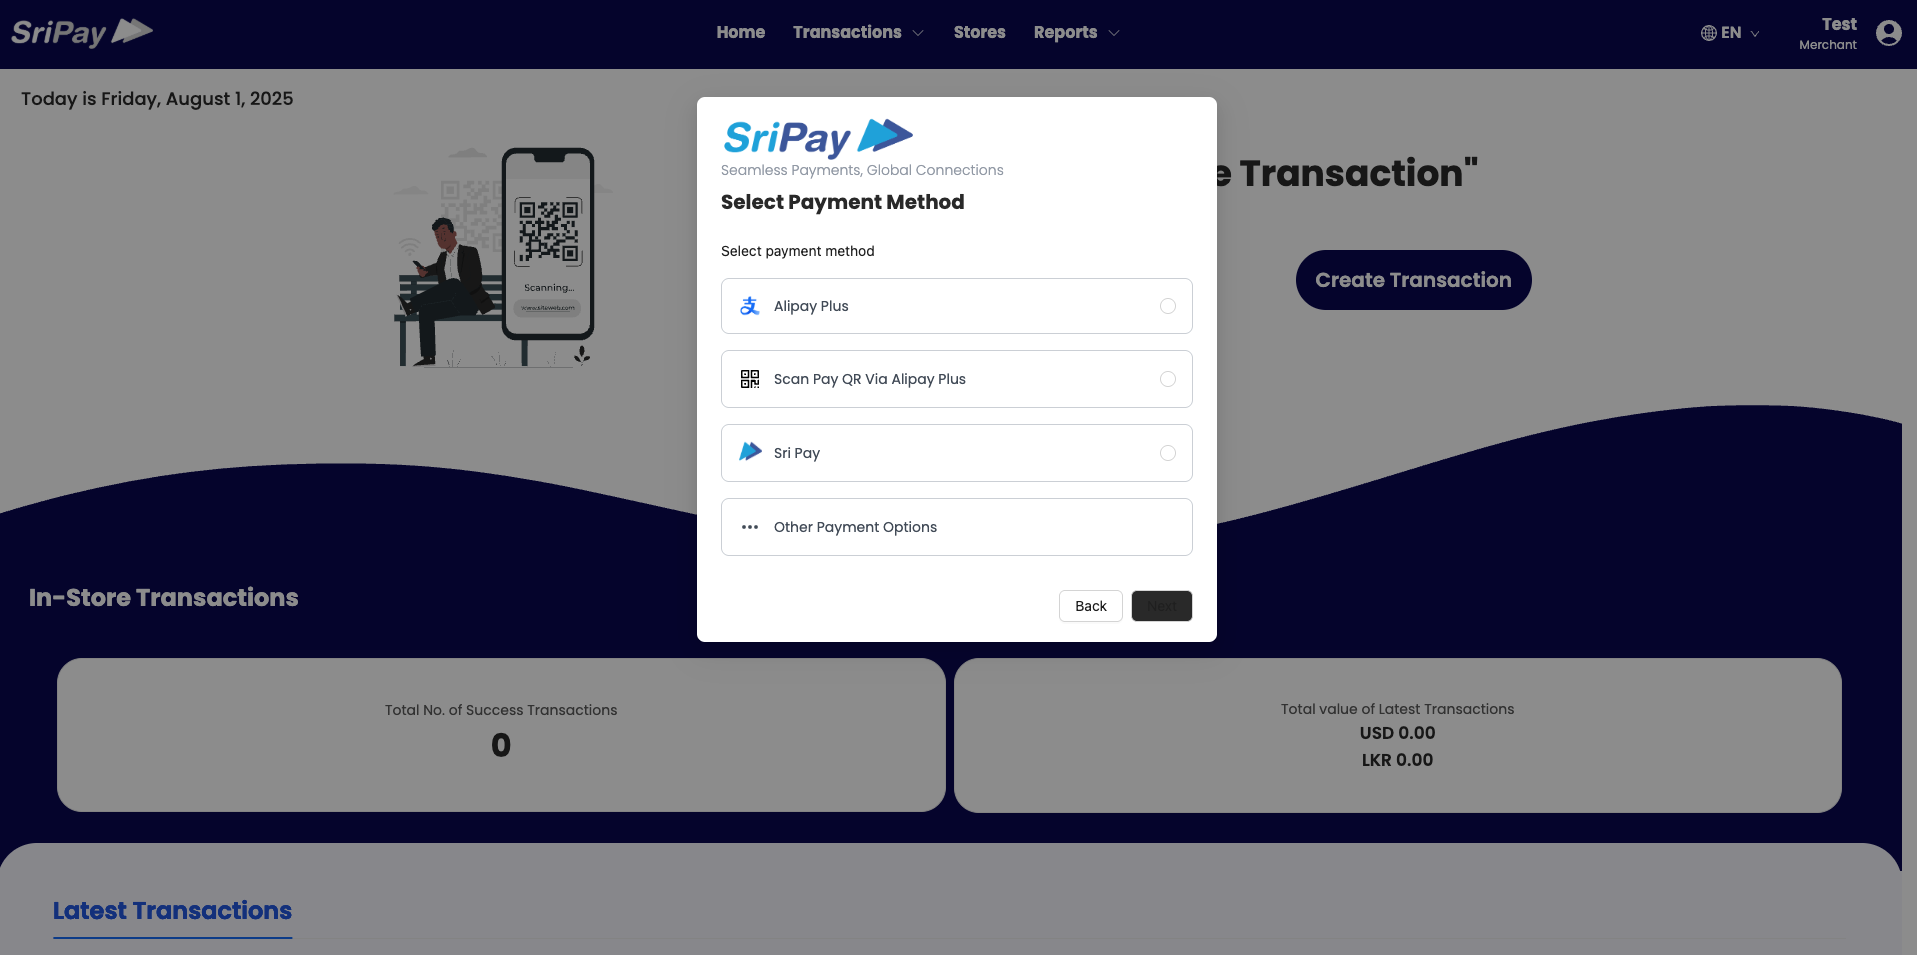
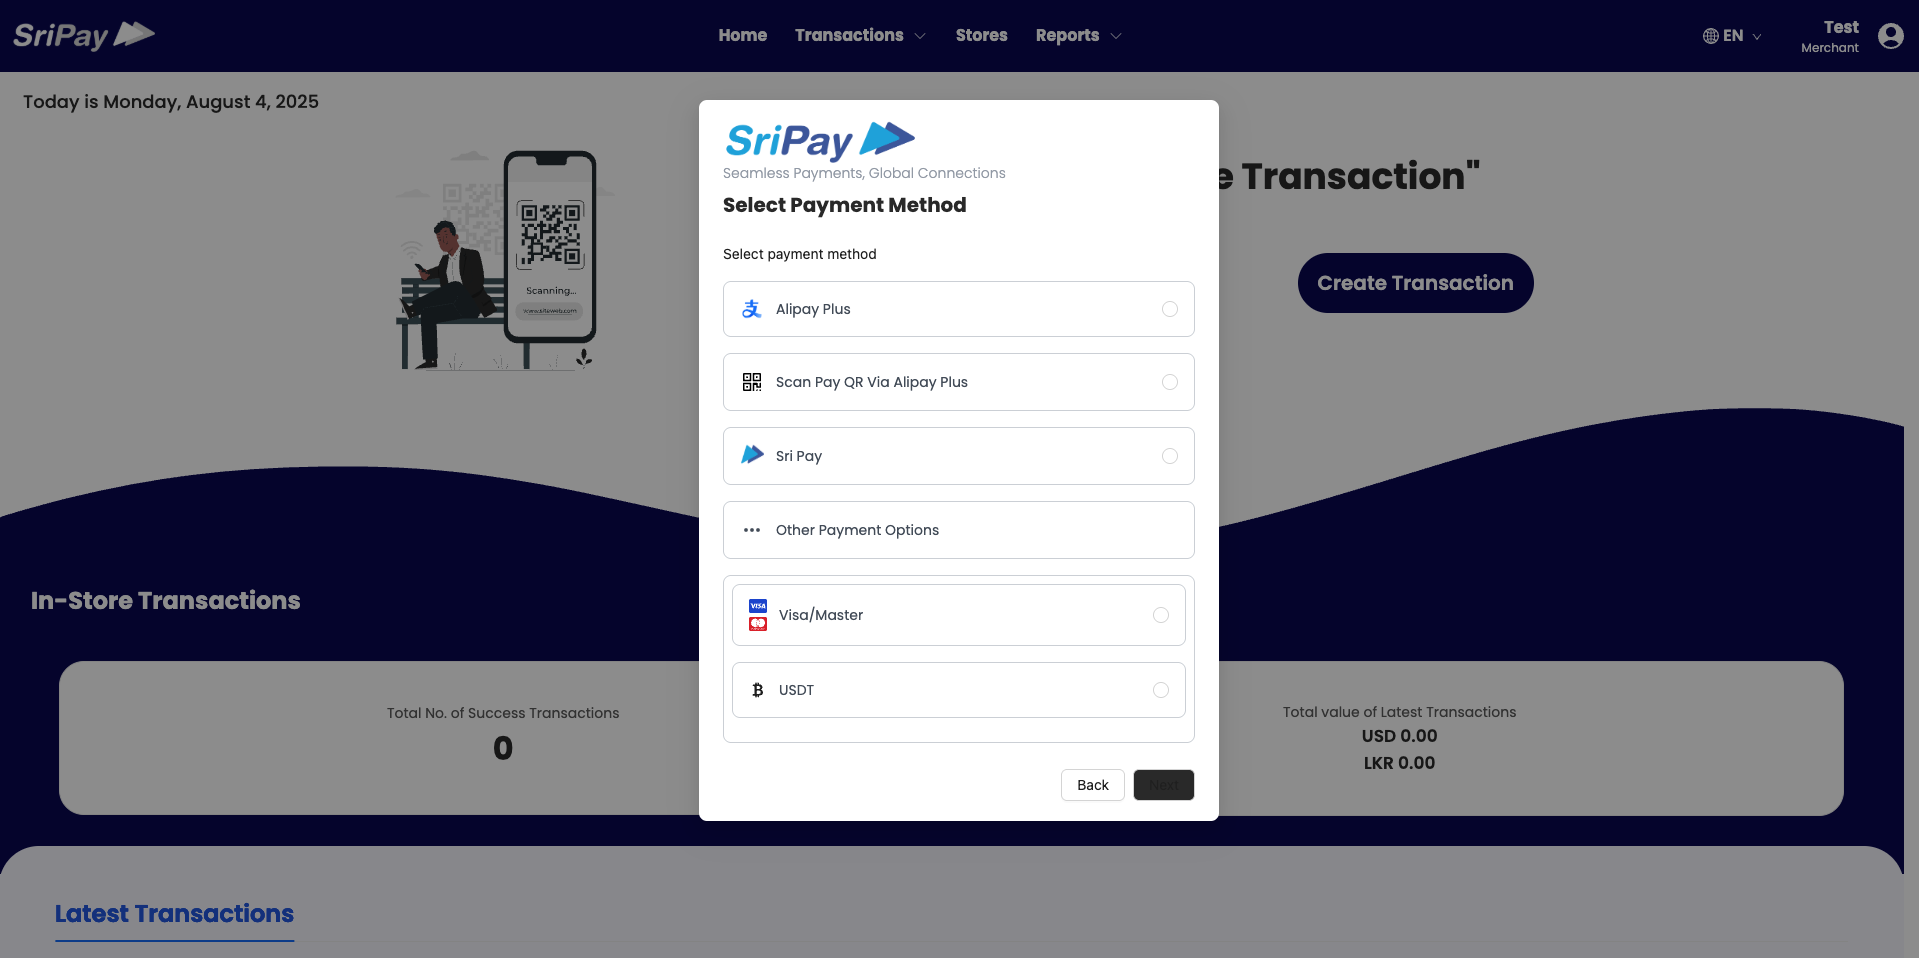
Transaction Instore Page developed

diff --git a/src/pages/merchant/transactions/Instore.jsx b/src/pages/merchant/transactions/Instore.jsx
@@ -1,25 +1,231 @@
-import React from 'react'
-import Img2 from '../../../assets/images/merchant/Img19.png';
-import Img3 from '../../../assets/images/merchant/Img20.png';
-import Img4 from '../../../assets/images/merchant/Img21.png';
-import Img5 from '../../../assets/images/merchant/Img22.png';
+import React, { useState } from 'react';
+import Zoom from 'react-medium-image-zoom';
+import 'react-medium-image-zoom/dist/styles.css';
+
+import UserCode from '../../../assets/images/merchant/AlipayLogo.png';
+import Img1 from '../../../assets/images/merchant/Img19.png';
+import Img2 from '../../../assets/images/merchant/Img20.png';
+import Img3 from '../../../assets/images/merchant/Img21.png';
+import Img4 from '../../../assets/images/merchant/Img23.png';
+import Img5 from '../../../assets/images/merchant/Img24.png';
+import Img6 from '../../../assets/images/merchant/Img25.png';
+import OrderCode from '../../../assets/images/merchant/Qr.jpg';
+import EntryCode from '../../../assets/images/Sripay_logo_traingle.png';
+import VisaIcon from '../../../assets/images/merchant/VisaMaster.jpg';
+import UsdtIcon from '../../../assets/images/merchant/USDT.png';
 
 function Instore() {
-    return (
-        <div className='w-full px-4 sm:px-8 md:px-16 lg:px-[12%] mt-10 mb-16'>
-            <h1 className='text-2xl sm:text-3xl md:text-4xl font-semibold text-gray-700 mb-6'>
-                Alipay + Instore
-            </h1>
-            <span className='mt-8 text- text-gray-700  text-2xl '>Initiate Secure Transaction</span>
+  const [selectedMethodIdx, setSelectedMethodIdx] = useState(0); // Auto-select Alipay Plus
 
-            <img src={Img2} alt='Step 5: Acquirer Store Evaluation' className="mx-auto my-6 block md:w-4/5" />
-            <span> Select Payment Method</span>
-            <img src={Img3} alt='Step 5: Acquirer Store Evaluation' className="mx-auto my-6 block md:w-4/5" />
-            <span> Enter the order value</span>
-            <img src={Img4} alt='Step 5: Acquirer Store Evaluation' className="mx-auto my-6 block md:w-4/5" />
+  const methods = [
+    {
+      title: 'Alipay Plus',
+      description: 'Customers scan the merchant-generated QR code with the order information to pay.',
+      icon: UserCode,
+      disabled: false,
+      details: (
+        <>
+          <h4 className="text-2xl font-bold mb-2">Alipay Plus Details</h4>
+          <div className="mt-8 p-6 bg-white rounded-lg shadow border border-gray-200">
+            <h4 className="text-xl font-semibold text-gray-700 mb-4">Enter Transaction Value</h4>
+            <span className="text-sm text-gray-600">
+              The merchant can choose the preferred currency type — either <strong>LKR</strong> or <strong>USD</strong> — before entering the amount.
+            </span>
+            <div className="mt-6">
+              <Zoom>
+                <img src={Img3} alt="Enter Amount Screenshot" className="rounded-md shadow mx-auto md:w-4/5" />
+              </Zoom>
+            </div>
 
+            <h4 className="text-xl font-semibold text-gray-700 mb-4 mt-10">Scan QR Code</h4>
+            <span className="text-gray-700 text-base">
+              Scan the QR code below using your device with the{' '}
+              <a href="https://sripay.lk/wallets" target="_blank" rel="noopener noreferrer">
+                <strong>Alipay plus & support wallets</strong>
+              </a>{' '}
+              app to complete the payment.
+            </span>
+            <div className="mt-6">
+              <Zoom>
+                <img src={Img4} alt="Scan QR" className="rounded-md shadow mx-auto md:w-4/5" />
+              </Zoom>
+            </div>
+
+            <h4 className="text-xl font-semibold text-gray-700 mb-4 mt-10">Payment Complete</h4>
+            <span className="text-gray-700 text-base">
+              After completing the payment, the merchant will see a <strong>Payment Received</strong> success message.
+            </span>
+            <div className="mt-6">
+              <Zoom>
+                <img src={Img5} alt="Payment Success" className="rounded-md shadow mx-auto md:w-4/5" />
+              </Zoom>
+            </div>
+          </div>
+        </>
+      ),
+    },
+    {
+      title: 'Scan Pay QR Via Alipay Plus',
+      description: 'Merchants scan the user presented QR code to collect payment.',
+      icon: OrderCode,
+      disabled: false,
+      details: (
+        <>
+          <h4 className="text-2xl font-bold mb-2">Scan Pay QR Via Alipay Plus</h4>
+          <div className="mt-8 p-6 bg-white rounded-lg shadow border border-gray-200">
+            <h4 className="text-xl font-semibold text-gray-700 mb-4">Enter Transaction Value</h4>
+            <span className="text-sm text-gray-600">
+              The merchant can choose the preferred currency type — either <strong>LKR</strong> or <strong>USD</strong> — before entering the amount.
+            </span>
+            <div className="mt-6">
+              <Zoom>
+                <img src={Img3} alt="Scan QR Code" className="rounded-md shadow mx-auto md:w-4/5" />
+              </Zoom>
+            </div>
+
+            <h4 className="text-xl font-semibold text-gray-700 mb-4 mt-10">Scan the QR Code</h4>
+            <span className="text-sm text-gray-600">
+              After creating the transaction, <strong>Alipay Plus generates a QR code</strong>. Use your device’s camera (as shown below) to scan and confirm the code securely.
+            </span>
+            <div className="mt-6">
+              <Zoom>
+                <img src={Img6} alt="Camera Scanner Popup" className="rounded-md shadow mx-auto md:w-4/5" />
+              </Zoom>
+            </div>
+
+            <h4 className="text-xl font-semibold text-gray-700 mb-4 mt-10">Payment Complete</h4>
+            <span className="text-gray-700 text-base">
+              Once the payment is complete, the merchant will see a success message indicating <strong>Payment Received</strong>.
+            </span>
+            <div className="mt-6">
+              <Zoom>
+                <img src={Img5} alt="Payment Success" className="rounded-md shadow mx-auto md:w-4/5" />
+              </Zoom>
+            </div>
+          </div>
+        </>
+      ),
+    },
+    {
+      title: 'Sri Pay',
+      description: 'Enable seamless in-store payments from global customers with one simple integration.',
+      icon: EntryCode,
+      disabled: false,
+      details: (
+        <div className="p-8 bg-white rounded-lg border border-yellow-300 shadow-md text-center">
+          <h4 className="text-2xl font-bold text-yellow-700 mb-4">Sri Pay</h4>
+          <p className="text-base text-gray-700">This payment method is <strong>coming soon</strong>!</p>
+          <p className="text-sm text-gray-500 mt-2">Stay tuned for future updates.</p>
         </div>
-    )
+      ),
+    },
+    {
+      title: 'Visa/Master',
+      description: 'Accept payments from global customers via credit or debit cards.',
+      icon: VisaIcon,
+      disabled: true,
+      details: (
+        <>
+          <h4 className="text-lg font-bold mb-2 text-blue-700">Visa/Master Details</h4>
+          <p className="text-gray-700 mb-2">Feature coming soon! Accept worldwide Visa/MasterCard payments securely at your counter.</p>
+          <p className="text-sm text-gray-500">You’ll be able to accept both chip and contactless card payments.</p>
+        </>
+      ),
+    },
+    {
+      title: 'USDT',
+      description: 'Let your customers pay securely using Tether (USDT) cryptocurrency.',
+      icon: UsdtIcon,
+      disabled: true,
+      details: (
+        <>
+          <h4 className="text-lg font-bold mb-2 text-blue-700">USDT Details</h4>
+          <p className="text-gray-700 mb-2">Coming soon: Accept payments in USDT, one of the world’s leading cryptocurrencies.</p>
+          <p className="text-sm text-gray-500">Seamless conversion to LKR with low transaction fees.</p>
+        </>
+      ),
+    },
+  ];
+
+  const selectedMethod = selectedMethodIdx !== null ? methods[selectedMethodIdx] : null;
+
+  return (
+    <div className="w-full px-4 sm:px-8 md:px-16 lg:px-[12%] mt-8 mb-16">
+      <h1 className="text-2xl sm:text-3xl md:text-4xl font-semibold text-gray-700 mb-8">In-store payments</h1>
+
+      <div className="flex flex-col md:flex-row justify-between items-center mb-10 p-4 gap-6">
+        <p className="text-gray-600 sm:text-sm md:w-[55%] max-w-3xl text-base">
+          Enable seamless in-store payments from global customers with one simple integration. Discover how advanced digital payment solutions and QR code technology can streamline transactions, reduce costs, and enhance the customer experience at your physical store.
+        </p>
+        <div className="w-full max-w-xs sm:max-w-sm md:w-[430px] aspect-video shadow rounded-lg overflow-hidden">
+          <iframe
+            src="https://www.youtube.com/embed/7cIP0NDv-0s?autoplay=1&mute=1&loop=1&playlist=7cIP0NDv-0s"
+            title="QR Payment Video"
+            allow="autoplay; encrypted-media"
+            allowFullScreen
+            className="w-full h-full"
+          />
+        </div>
+      </div>
+
+      <h3 className="text-2xl text-gray-700 py-7">How to create a Transaction?</h3>
+      <p>Click <strong>Transactions</strong> &gt; <strong>Alipay+ InStore</strong> &gt; <strong>Create Transaction</strong>.</p>
+      <ul className="list-disc list-inside ml-4 mt-4 mb-10">
+        <li>Select or type the <strong>Store</strong></li>
+        <li>Select or type the <strong>Terminal</strong></li>
+        <li>Select or type the <strong>Purpose of Payment</strong></li>
+      </ul>
+      <Zoom>
+        <img src={Img1} alt="Create Transaction" className="mx-auto my-6 block md:w-4/5 rounded-lg shadow" />
+      </Zoom>
+
+      <h3 className="text-2xl text-gray-700 py-7">Step 2: Select Payment Method</h3>
+      <Zoom>
+        <img src={Img2} alt="Select Payment Method" className="mx-auto my-6 block md:w-4/5 rounded-lg shadow" />
+      </Zoom>
+
+      <div className="bg-blue-100 my-10 border px-4 py-4 rounded-md text-blue-700 text-center">
+        Want to know more about each payment method? Click on any payment option below to learn how it works.
+      </div>
+
+      <div className="grid gap-6 sm:grid-cols-2 lg:grid-cols-3">
+        {methods.map((method, index) => (
+          <div
+            key={index}
+            className={`bg-white shadow-md rounded-lg p-6 text-center transition duration-300
+              ${method.disabled ? 'opacity-50 cursor-not-allowed' : 'hover:shadow-lg cursor-pointer'}
+              ${selectedMethodIdx === index && !method.disabled ? 'ring-2 ring-blue-400' : ''}
+            `}
+            onClick={() => {
+              if (!method.disabled) setSelectedMethodIdx(index);
+            }}
+          >
+            <img src={method.icon} alt={method.title} className="mx-auto h-20 md:h-24 mb-4 object-contain" />
+            <h3 className="text-lg sm:text-xl font-semibold text-gray-800 mb-2">{method.title}</h3>
+            <p className="text-sm text-gray-600">{method.description}</p>
+          </div>
+        ))}
+      </div>
+
+      {selectedMethod && !selectedMethod.disabled && (
+        <div className="mt-10 p-6 bg-blue-100 rounded-xl shadow-lg border border-blue-100 max-w-full mx-auto animate-fade-in">
+          {selectedMethod.details}
+        </div>
+      )}
+
+      <style>
+        {`
+          @keyframes fade-in {
+            from { opacity: 0; transform: translateY(20px);}
+            to { opacity: 1; transform: none;}
+          }
+          .animate-fade-in {
+            animation: fade-in 0.4s ease;
+          }
+        `}
+      </style>
+    </div>
+  );
 }
 
-export default Instore
+export default Instore;

diff --git a/src/App.jsx b/src/App.jsx
@@ -42,6 +42,8 @@ import MerchantMultipleStore from './pages/merchant/MultipleStoreCreate.jsx';
 import BrandingGuidelines from './pages/BrandingGuidelines.jsx';
 import MarketingMaterials from './pages/MarketingMaterials.jsx';
 import Instore from './pages/merchant/transactions/Instore.jsx';
+import Online from './pages/merchant/transactions/online.jsx';
+ 
 function App() {
   return (
     <BrowserRouter>
@@ -88,13 +90,14 @@ function App() {
           <Route path="merchant-TerminalManagement" element={<MerchantTerminalManagement />} />
           <Route path="merchant-management/store/assign-users" element={<StoreUsersAssign />} />
           <Route path="merchant-transaction/alipay_instore" element={<Instore />} />
+          <Route path="merchant-transaction/alipay_online" element={<Online />} />
           <Route path="troubleshooting" element={<TroubleshootingMerchant/>} />
           <Route path="faq" element={<FaqMerchant/>} />
           <Route path='support' element={<MerchantSupport/>}/>
         </Route>
 
 
-        {/* Fallbacks */}
+        {/* Fallbacks */}ß
         <Route path="/not-found" element={<NotFound />} />
         <Route path="*" element={<Navigate to="/not-found" replace />} />
 

diff --git a/src/pages/merchant/transactions/Online.jsx b/src/pages/merchant/transactions/Online.jsx
@@ -1,0 +1,12 @@
+import React from 'react'
+
+
+function Online() {
+  return (
+    <div className='w-full px-4 sm:px-8 md:px-16 lg:px-[12%] mt-10 mb-16'>
+ <img src={Img1} alt='Step 5: Acquirer Store Evaluation' className="mx-auto my-6 block md:w-4/5" />
+    </div>
+  )
+}
+
+export default Online
